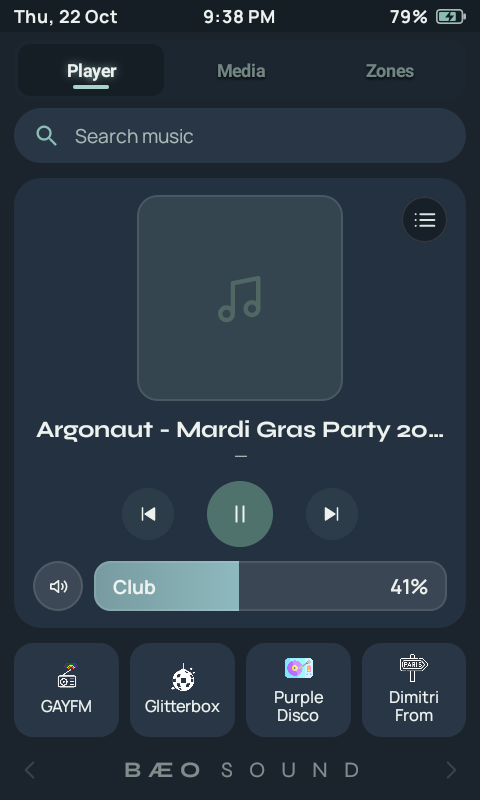
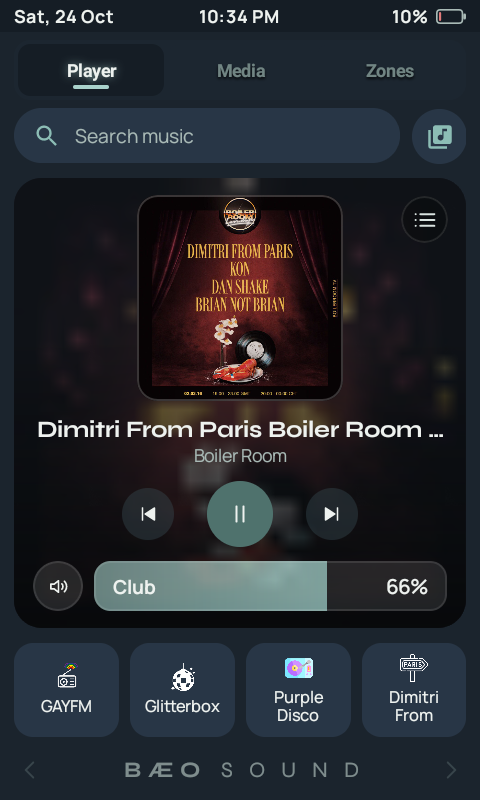
README: current media screenshots, the Sonos library browser added

diff --git a/README.md b/README.md
@@ -25,11 +25,12 @@ The app is built around four primary pages, reachable with dedicated physical sh
 
 The media dashboard features three dedicated tabs tailored for single-touch music management:
 
-| Player (Now Playing) | Queue | Media (Shelves & Playlists) | Zones (BÆOLINK Multi-Room) |
-|---|---|---|---|
-| ![Sonos Player](screenshots/media-page.png) | ![Queue](screenshots/queue.png) | ![Sonos Media](screenshots/sonos-media.png) | ![Sonos Zones](screenshots/sonos-group.png) |
+| Player (Now Playing) | Library | Queue | Media (Shelves & Playlists) | Zones (BÆOLINK Multi-Room) |
+|---|---|---|---|---|
+| ![Sonos Player](screenshots/media-page.png) | ![Library](screenshots/sonos-browser.png) | ![Queue](screenshots/queue.png) | ![Sonos Media](screenshots/sonos-media.png) | ![Sonos Zones](screenshots/sonos-group.png) |
 
-* **Player:** The Search music bar on top, then the cover over a blurred wash, transport controls, a volume fader with mute, and four one-touch mixes.
+* **Player:** The Search music bar and the library button on top, then the cover over a blurred wash, transport controls, a volume fader with mute, and four one-touch mixes.
+* **Library:** The round button beside Search music opens the Sonos library as HA's media browser shows it (favourites, music library, Plex, Spotify, radio) for any room: drill into folders, tap to play now or + to add to that room's queue.
 * **Queue:** Now playing and up next from Music Assistant; when the Sonos is playing something Music Assistant didn't start (a favourite, the radio), its own track.
 * **Media:** Music Assistant shelves: random albums from the local collection (Spotify's saved albums are kept out), favourite songs and playlists.
 * **Zones:** Join or drop each room's speaker with its own volume; the **BÆOLINK** switch makes the music follow you from room to room.
